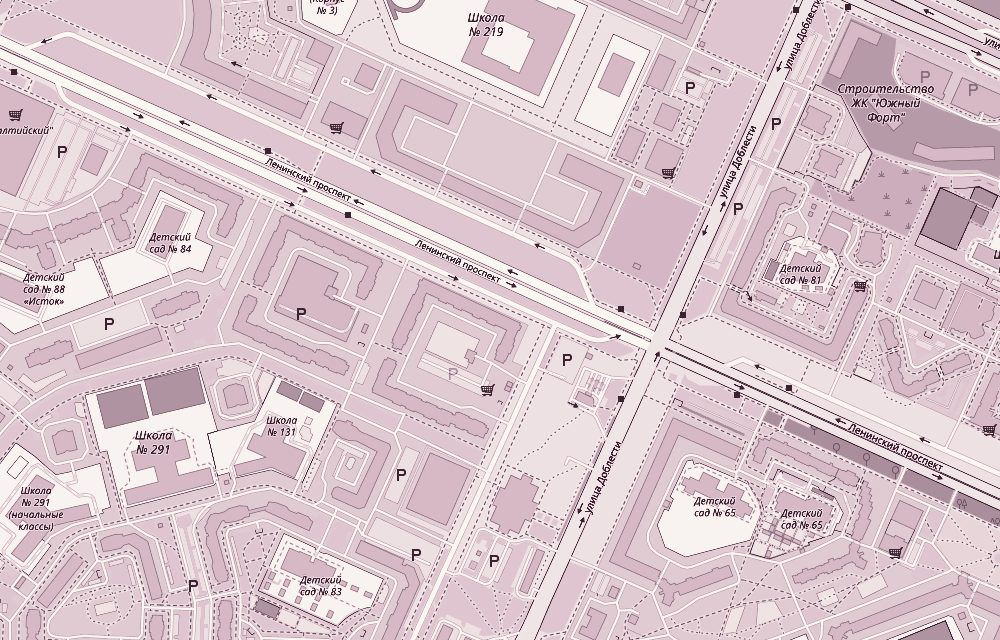
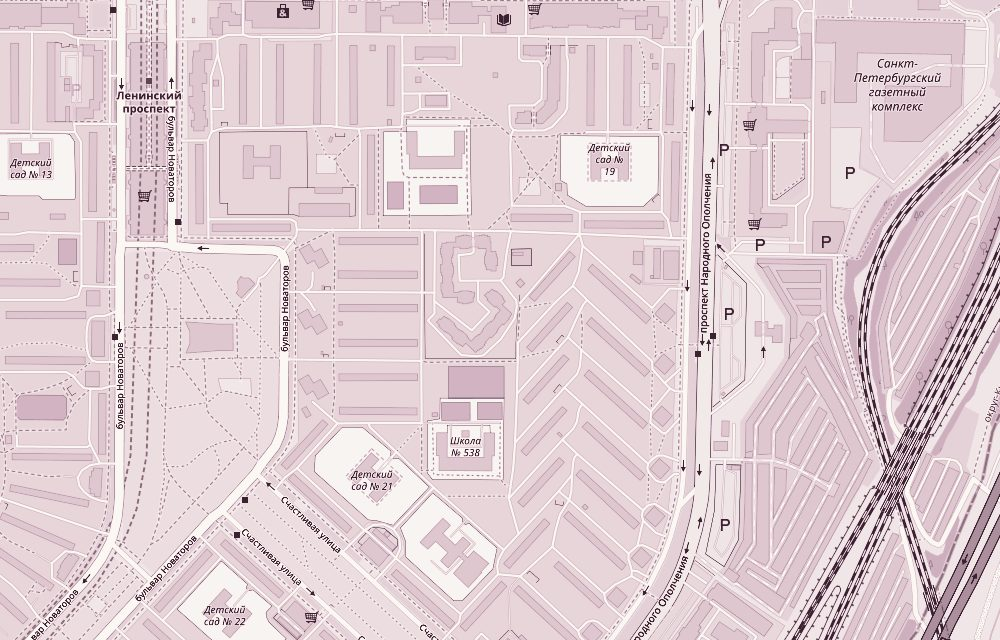
marianna-torty: her edits (hero photo, address Novatorov 26k2, prices from 2500/kg, mini 2000, savory 3000/3500, WhatsApp, delivery paid by customer)

diff --git a/marianna-torty/index.html b/marianna-torty/index.html
@@ -528,7 +528,7 @@
       <a class="ny-chip" href="#novyy-god"><i>✦</i>Новый год: шоколадные фигуры и наборы от 400 ₽</a>
       <p class="kick">Торты на заказ в Санкт-Петербурге</p>
       <h1>Сладости <em>для радости</em></h1>
-      <p class="lead">Меня зовут Марианна, я кондитер с Ленинского проспекта. Пеку торты, мини-тортики и закусочные торты, делаю имбирные пряники и шоколад. Сливки 33%, бельгийский шоколад, ягодные начинки из свежих ягод, а не из готовых пюре.</p>
+      <p class="lead">Меня зовут Марианна, я кондитер, работаю у метро Ленинский проспект. Пеку торты, мини-тортики и закусочные торты, делаю имбирные пряники и шоколад. Сливки 33%, бельгийский шоколад, ягодные начинки из свежих ягод, а не из готовых пюре.</p>
       <div class="hero-facts">
         <div><b>от 2 500 ₽</b><span>за 1 кг торта</span></div>
         <div><b>от 1,5 кг</b><span>минимальный заказ</span></div>
@@ -540,7 +540,7 @@
       </div>
     </div>
     <div class="hero-fig">
-      <div class="hero-photo ph" data-lb="hero" data-cap="Торт с бабочками"><img src="img/hero.jpg" alt="Лиловый торт с бабочками от кондитера Марианны" fetchpriority="high"></div>
+      <div class="hero-photo ph" data-lb="hero" data-cap="Торт-платье с красными розами"><img src="img/hero.jpg" alt="Торт-платье с красными розами от кондитера Марианны" fetchpriority="high"></div>
       <div class="loupe ph" data-lb="hero" data-cap="Начинка «Лавандовое поле» в разрезе"><img src="img/hero-cut.jpg" alt="Разрез торта с начинкой Лавандовое поле"></div>
       <p class="loupe-note"><b>Снаружи по вашей идее</b>внутри одна из 25 начинок. Например, «Лавандовое поле»: лавандовые коржи и чёрная смородина</p>
       <div class="tag">от<b>2 500 ₽</b>за кг</div>
@@ -586,12 +586,12 @@
 <section class="sec" id="torty">
   <div class="wrap">
     <div class="sec-head">
-      <div><p class="kick">Каталог с ценами</p><h2 class="h2">Торты, которые <em>уже пекла</em></h2><p class="sub">Цена указана за весь торт на момент изготовления. Любой можно повторить в другой начинке или с другим именем и цифрой.</p></div>
+      <div><p class="kick">Каталог с ценами</p><h2 class="h2">Торты, которые <em>уже пекла</em></h2><p class="sub">Все торты от 2 500 ₽ за 1 кг, итог зависит от начинки и декора. Любой можно повторить в другой начинке или с другим именем и цифрой.</p></div>
     </div>
     <div class="tabs scroll" id="cat-tabs" role="tablist"></div>
     <div class="grid" id="grid"></div>
     <div class="more"><button class="btn btn-line" id="more" type="button"><span>Показать ещё</span></button></div>
-    <p class="cat-note">Сейчас цена от 2 500 ₽ за 1 кг: она зависит от начинки (с шоколадом дороже), веса и сложности декора. Ягоды в декоре добавляют 1 000 ₽. Точную сумму назову, когда обсудим ваш торт.</p>
+    <p class="cat-note">Цена в карточке посчитана по весу этого торта, от 2 500 ₽ за 1 кг. Она зависит от начинки (с шоколадом дороже) и сложности декора, ягоды в декоре добавляют 1 000 ₽. Точную сумму назову, когда обсудим ваш торт.</p>
   </div>
 </section>
 
@@ -658,7 +658,7 @@
       <div>
         <p class="kick">Мини-тортики и десерты</p>
         <h2 class="h2">Мои бенто <em>не на один зубок</em></h2>
-        <p class="sub">Обычный бенто весит 300–400 г. Мои мини-тортики 14–15 см в диаметре, высотой около 8 см и весят от 700 г до 1 кг. Упаковываю в красивую коробку.</p>
+        <p class="sub">Обычный бенто весит 300–400 г. Мои мини-тортики 14–15 см в диаметре, высотой около 8 см и весят от 700 г до 1 кг. Упаковываю в красивую коробку. Цена от 2 000 ₽.</p>
         <blockquote class="quote">Ну не могу я положить в торт 50 граммов начинки. Не могу!<cite>Марианна о маленьких бенто</cite></blockquote>
       </div>
       <figure class="scale" aria-label="Сравнение: обычный бенто 10 см и 300–400 г, мини-тортик Марианны 14 см и 700 г – 1 кг">
@@ -697,7 +697,7 @@
           <text x="295" y="50" text-anchor="middle" font-size="14" font-weight="700" fill="#B8186F">Ø 14–15 см</text>
           <text x="393" y="138" font-size="14" font-weight="700" fill="#B8186F" text-anchor="middle" transform="rotate(90 393 138)">8 см</text>
           <text x="295" y="214" text-anchor="middle" font-size="15" font-weight="700" fill="#2A1720">МОЙ МИНИ-ТОРТИК</text>
-          <text x="295" y="234" text-anchor="middle" font-size="14" fill="#5C4851">в 2 раза тяжелее бенто</text>
+          <text x="295" y="234" text-anchor="middle" font-size="14" fill="#5C4851">в 2 раза тяжелее · от 2 000 ₽</text>
           <text x="295" y="252" text-anchor="middle" font-size="14" font-weight="700" fill="#2A1720">700 г – 1 кг</text>
         </svg>
       </figure>
@@ -753,10 +753,10 @@
     <div>
       <p class="kick">Сладкое и солёное</p>
       <h2 class="h2">Закусочные торты, <em>мои фавориты</em></h2>
-      <p class="sub">Торт на праздник не обязан быть сладким. Мясные и рыбные торты собираю так же, как десертные: коржи, крем, декор.</p>
+      <p class="sub">Торт на праздник не обязан быть сладким. Мясные и рыбные торты собираю так же, как десертные: коржи, крем, декор. Цена зависит от оформления.</p>
       <ul class="salt-list">
-        <li><b>Рыбный торт</b><span>Сёмга, авокадо и креветки. Нежный сливочный крем с маслинами, маринованными огурчиками и укропом</span></li>
-        <li><b>Мясной торт</b><span>Коржи из свиного и говяжьего фарша или мясные блины. Бывает и торт-букет</span></li>
+        <li><b>Рыбный торт, от 3 500 ₽</b><span>Сёмга, авокадо и креветки. Нежный сливочный крем с маслинами, маринованными огурчиками и укропом</span></li>
+        <li><b>Мясной торт, от 3 000 ₽</b><span>Коржи из свиного и говяжьего фарша или мясные блины. Бывает и торт-букет</span></li>
         <li><b>С колбасой и ветчиной</b><span>Колбаса, ветчина и шампиньоны, розы из колбасы сверху</span></li>
         <li><b>Блинный и со шпинатным бисквитом</b><span>Шпинатный бисквит с форелью или закусочный блинный торт</span></li>
       </ul>
@@ -801,7 +801,7 @@
         <h3>Цены на пряники</h3>
         <ul>
           <li>Имбирный пряник, Ø 10 см, 80 г<b>150 ₽</b></li>
-          <li>Маленький пряник<b>100 ₽</b></li>
+          <li>Новогодний пряник<b>от 150 ₽</b></li>
           <li>Букет из пряников<b>от 1 500 ₽</b></li>
           <li>Корзинка для букета<b>500 ₽</b></li>
           <li>Безе в букет, за штуку<b>50–100 ₽</b></li>
@@ -904,8 +904,8 @@
         <button class="btn btn-mag" type="button" id="c-add">Добавить расчёт в заявку</button>
       </div>
       <ul class="rules">
-        <li><i>01</i><div><b>от 2 500 ₽ за 1 кг</b><p>Цена актуальна с 1 августа 2025. Зависит от начинки (с шоколадом дороже), веса и сложности декора.</p></div></li>
-        <li><i>02</i><div><b>Минимальный заказ 1,5 кг</b><p>Мини-тортики весят от 700 г до 1 кг, 14–15 см в диаметре.</p></div></li>
+        <li><i>01</i><div><b>Все торты от 2 500 ₽ за 1 кг</b><p>Цена актуальна с 1 августа 2025. Зависит от начинки (с шоколадом дороже), веса и сложности декора.</p></div></li>
+        <li><i>02</i><div><b>Минимальный заказ 1,5 кг</b><p>Мини-тортик от 700 г, 14–15 см в диаметре, стоит от 2 000 ₽.</p></div></li>
         <li><i>03</i><div><b>Ягоды в декоре +1 000 ₽</b><p>Ягода и шоколад сильно подорожали, но такие торты всё равно одни из самых любимых.</p></div></li>
         <li><i>04</i><div><b>Корона, свечи, топпер, подложка</b><p>Оплачиваются отдельно, по вашему заказу.</p></div></li>
         <li><i>05</i><div><b>Можно без декора</b><p>Сделаю торт без украшений: удобно, если хотите украсить сами или просто полакомиться.</p></div></li>
@@ -920,14 +920,14 @@
     <p class="kick">Как заказать</p>
     <h2 class="h2">Четыре шага <em>до торта</em></h2>
     <div class="steps">
-      <div class="step"><i>1</i><b>Напишите или позвоните</b><p>Дата, повод, сколько гостей и картинка или идея. Телефон +7 921 652-68-83 или сообщения ВКонтакте.</p></div>
+      <div class="step"><i>1</i><b>Напишите или позвоните</b><p>Дата, повод, сколько гостей и картинка или идея. Телефон, WhatsApp и MAX: +7 921 652-68-83, или сообщения ВКонтакте.</p></div>
       <div class="step"><i>2</i><b>Подбираем начинку и вес</b><p>Посоветую вкус под гостей и повод, назову точную цену.</p></div>
       <div class="step"><i>3</i><b>Готовлю ваш торт</b><p>Я на связи до полного завершения заказа и отвечу на все вопросы.</p></div>
-      <div class="step"><i>4</i><b>Забираете или доставим</b><p>Самовывоз на Ленинском проспекте или Яндекс Доставка до двери.</p></div>
+      <div class="step"><i>4</i><b>Забираете или доставим</b><p>Самовывоз у метро Ленинский проспект или Яндекс Доставка до двери.</p></div>
     </div>
     <div class="conds">
-      <div class="cond"><b><svg class="ico"><use href="#i-bag"/></svg>Самовывоз</b><p>Ленинский пр., 57 к1. Ежедневно с 9:00 до 21:00, время согласуем заранее.</p></div>
-      <div class="cond"><b><svg class="ico"><use href="#i-truck"/></svg>Доставка</b><p>Яндекс Доставкой, каждый торт застрахован на 50 000 ₽. Возили и в Ленобласть, и к 6 утра.</p></div>
+      <div class="cond"><b><svg class="ico"><use href="#i-bag"/></svg>Самовывоз</b><p>Бульвар Новаторов, 26 к2, метро Ленинский проспект. Ежедневно с 9:00 до 21:00, время согласуем заранее.</p></div>
+      <div class="cond"><b><svg class="ico"><use href="#i-truck"/></svg>Доставка</b><p>Яндекс Доставкой, оплачивает заказчик. Каждый торт застрахован на 50 000 ₽. Возили и в Ленобласть, и к 6 утра.</p></div>
       <div class="cond"><b><svg class="ico"><use href="#i-card"/></svg>Оплата</b><p>Наличными или на карту Сбербанка, пришлю чек. Торт скоропортящийся, поэтому все детали согласуем до начала работы.</p></div>
     </div>
   </div>
@@ -941,10 +941,10 @@
       <details><summary>Можно сделать торт точь-в-точь как на картинке?</summary><p>Референсы идеально я не повторяю. Возьму идею, цвета и настроение и сделаю по-своему, своими руками. Многие заказчики вообще доверяют мне дизайн: присылают имя, возраст и что любит именинник.</p></details>
       <details><summary>Сколько стоит торт?</summary><p>От 2 500 ₽ за 1 кг. Цена зависит от начинки (с шоколадом дороже), веса и сложности декора, ягоды в декоре добавляют 1 000 ₽. В каталоге выше есть торты с ценами, а в калькуляторе можно прикинуть вес по числу гостей.</p></details>
       <details><summary>Почему торт со сложным декором стоит дороже?</summary><p>Работа и время стоят денег. Один из моих тортов я делала 12 часов, и это когда ярусы уже были собраны. Подготовка декора иногда занимает больше времени, чем сам торт.</p></details>
-      <details><summary>Вы делаете бенто на 300 граммов?</summary><p>Нет, маленькие бенто я не делаю. Мои мини-тортики 14–15 см в диаметре и весят от 700 г до 1 кг, потому что начинки я не жалею. Упаковываю их в красивые коробки.</p></details>
+      <details><summary>Вы делаете бенто на 300 граммов?</summary><p>Нет, маленькие бенто я не делаю. Мои мини-тортики 14–15 см в диаметре и весят от 700 г до 1 кг, потому что начинки я не жалею. Упаковываю их в красивые коробки, цена от 2 000 ₽.</p></details>
       <details><summary>За сколько дней заказывать?</summary><p>Чем раньше, тем лучше, особенно перед праздниками: даты разбирают. Если нужно срочно, всё равно пишите: бывало, делала торт за сутки.</p></details>
       <details><summary>Можно заказать торт без декора или только декор?</summary><p>Да. Торт без украшений можно, его удобно украсить самим. А если торт вы печёте сами, у меня можно заказать только декор: пряники, шоколадные фигурки, надписи.</p></details>
-      <details><summary>Как вы доставляете торты?</summary><p>Яндекс Доставкой, каждый торт застрахован на 50 000 ₽. Или самовывоз: Ленинский проспект, 57 к1, ежедневно с 9:00 до 21:00 по договорённости.</p></details>
+      <details><summary>Как вы доставляете торты?</summary><p>Яндекс Доставкой, доставку оплачивает заказчик, каждый торт застрахован на 50 000 ₽. Или самовывоз: бульвар Новаторов, 26 к2, метро Ленинский проспект, ежедневно с 9:00 до 21:00 по договорённости.</p></details>
     </div>
   </div>
 </section>
@@ -967,7 +967,7 @@
           <div class="f"><label class="f-lab" for="f-filling">Начинка</label><select id="f-filling" name="filling"><option value="">Посоветуйте</option></select></div>
         </div>
         <div class="f"><span class="f-lab">Получение</span>
-          <div class="seg"><label><input type="radio" name="get" value="Самовывоз, Ленинский пр." checked><span>Самовывоз, Ленинский пр.</span></label><label><input type="radio" name="get" value="Доставка"><span>Доставка</span></label></div>
+          <div class="seg"><label><input type="radio" name="get" value="Самовывоз, б-р Новаторов" checked><span>Самовывоз, б-р Новаторов</span></label><label><input type="radio" name="get" value="Доставка"><span>Доставка</span></label></div>
         </div>
         <div class="f"><label class="f-lab" for="f-comment">Идея и пожелания</label><textarea id="f-comment" name="comment" placeholder="Повод, имя и возраст, цвета, надпись. Картинку можно прислать потом в сообщения"></textarea></div>
         <div class="f-row">
@@ -979,8 +979,8 @@
         <p class="err" id="err" role="alert"></p>
         <div class="f-btns" id="f-btns"><button class="btn btn-mag" id="submit" type="submit">Отправить заявку</button><button class="btn btn-line" type="button" id="send-vk"><svg class="ico"><use href="#i-chat"/></svg>Написать ВКонтакте</button></div>
         <div class="sent" id="sent" hidden><div class="ok"><svg class="ico"><use href="#i-check"/></svg></div><b>Спасибо, заявка принята!</b><p>Скоро напишу или позвоню, чтобы обсудить детали</p></div>
-        <div class="fallback" id="fallback" hidden>Не получилось отправить заявку. Напишите ВКонтакте или позвоните, всё обсудим:
-          <div class="f-btns"><a class="btn btn-mag" href="https://vk.me/club214423004" target="_blank" rel="noopener">Написать ВКонтакте</a><a class="btn btn-line" href="tel:+79216526883">Позвонить</a></div>
+        <div class="fallback" id="fallback" hidden>Не получилось отправить заявку. Напишите в WhatsApp, ВКонтакте или позвоните, всё обсудим:
+          <div class="f-btns"><a class="btn btn-mag" href="https://wa.me/79216526883" target="_blank" rel="noopener">WhatsApp</a><a class="btn btn-line" href="https://vk.me/club214423004" target="_blank" rel="noopener">ВКонтакте</a><a class="btn btn-line" href="tel:+79216526883">Позвонить</a></div>
         </div>
       </form>
       <div class="contacts" id="kontakty">
@@ -988,16 +988,17 @@
           <h3>Контакты</h3>
           <ul class="clist">
             <li><svg class="ico"><use href="#i-phone"/></svg><div><a href="tel:+79216526883">+7 921 652-68-83</a><small>Заказ и консультация: звонок или сообщение</small></div></li>
+            <li><svg class="ico"><use href="#i-chat"/></svg><div><a href="https://wa.me/79216526883" target="_blank" rel="noopener">Написать в WhatsApp</a><small>Тот же номер есть и в MAX</small></div></li>
             <li><svg class="ico"><use href="#i-chat"/></svg><div><a href="https://vk.me/club214423004" target="_blank" rel="noopener">Написать ВКонтакте</a><small>Отвечаю обычно в течение 5 минут</small></div></li>
-            <li><svg class="ico"><use href="#i-pin"/></svg><div>Санкт-Петербург, Ленинский проспект, 57 к1<small>Самовывоз, Красносельский район</small></div></li>
+            <li><svg class="ico"><use href="#i-pin"/></svg><div>Санкт-Петербург, бульвар Новаторов, 26 к2<small>Самовывоз, метро Ленинский проспект</small></div></li>
             <li><svg class="ico"><use href="#i-clock"/></svg><div>Ежедневно с 9:00 до 21:00<small>Время самовывоза согласуем заранее</small></div></li>
           </ul>
         </div>
         <div class="map">
-          <img src="img/map.jpg" alt="Карта: Ленинский проспект, 57 к1" loading="lazy">
+          <img src="img/map.jpg" alt="Карта: бульвар Новаторов, 26 к2" loading="lazy">
           <span class="pin" aria-hidden="true"></span>
           <span class="osm">© участники OpenStreetMap</span>
-          <div class="map-cap"><span>Ленинский пр., 57 к1</span><a class="btn btn-mag" href="https://yandex.ru/maps/?rtext=~59.8616071,30.1762627&amp;rtt=auto" target="_blank" rel="noopener">Маршрут в Яндекс Картах</a></div>
+          <div class="map-cap"><span>б-р Новаторов, 26 к2</span><a class="btn btn-mag" href="https://yandex.ru/maps/?rtext=~59.8480653,30.2759238&amp;rtt=auto" target="_blank" rel="noopener">Маршрут в Яндекс Картах</a></div>
         </div>
       </div>
     </div>
@@ -1011,6 +1012,7 @@
       <div><b>Марианна</b><p>Торты на заказ, мини-тортики, закусочные торты, пряники и шоколад ручной работы. Ленинский проспект, Санкт-Петербург</p></div>
       <nav aria-label="Контакты">
         <a href="tel:+79216526883">+7 921 652-68-83</a>
+        <a href="https://wa.me/79216526883" target="_blank" rel="noopener">WhatsApp</a>
         <a href="https://vk.com/club214423004" target="_blank" rel="noopener">Группа ВКонтакте</a>
         <a href="privacy.html">Политика обработки персональных данных</a>
       </nav>
@@ -1021,7 +1023,7 @@
 
 <nav class="mbar" id="mbar" aria-label="Быстрые действия">
   <a href="tel:+79216526883"><svg class="ico"><use href="#i-phone"/></svg>Позвонить</a>
-  <a href="https://vk.me/club214423004" target="_blank" rel="noopener"><svg class="ico"><use href="#i-chat"/></svg>ВКонтакте</a>
+  <a href="https://wa.me/79216526883" target="_blank" rel="noopener"><svg class="ico"><use href="#i-chat"/></svg>WhatsApp</a>
   <a class="go" href="#zakaz">Заказать <em id="mbar-n" hidden>0</em></a>
 </nav>
 
@@ -1091,13 +1093,14 @@
   const TABS = [["girls", "Девочкам"], ["boys", "Мальчикам"], ["young", "Девушкам"], ["women", "Женщинам"], ["men", "Мужчинам"], ["jub", "Свадьбы и юбилеи"]];
   let curTab = "girls", showAll = false;
   const kgNum = w => parseFloat(String(w).replace(",", "."));
-  const labelOf = x => x.wed ? x.t : `${x.t}${x.w ? `, ${x.w} кг` : ""}${x.p ? `, ${fmt(x.p)} ₽` : ""}`;
+  const priceOf = x => x.w ? Math.round(kgNum(x.w) * 2500) : 0;
+  const labelOf = x => x.wed ? x.t : `${x.t}${x.w ? `, ${x.w} кг, от ${fmt(priceOf(x))} ₽` : ""}`;
   ALL.forEach(x => x.label = labelOf(x));
   $("cat-tabs").innerHTML = TABS.map(([k, n]) => `<button class="tab" role="tab" type="button" data-tab="${k}" aria-selected="${k === curTab}">${n}<sup>${ALL.filter(x => x.tab === k).length}</sup></button>`).join("");
   function card(x){
     const k = ALL.indexOf(x);
-    const per = x.p && x.w ? `≈ ${fmt(Math.round(x.p / kgNum(x.w) / 50) * 50)} ₽ за кг` : (x.wed ? "по весу" : "");
-    const price = x.wed ? "от 2 500 ₽/кг" : `${fmt(x.p)} ₽`;
+    const per = x.w ? "от 2 500 ₽ за кг" : "по весу";
+    const price = x.w ? `от ${fmt(priceOf(x))} ₽` : "от 2 500 ₽/кг";
     return `<article class="cake"><button class="cake-img" type="button" data-open="${k}" aria-label="Подробнее: ${esc(x.t)}"><img src="img/${x.img}.jpg" alt="${esc(x.t)}" loading="lazy">${x.w ? `<span class="w">${x.w} кг</span>` : (x.wed ? `<span class="w">свадьба</span>` : "")}</button>
       <div class="cake-b"><h3>${esc(x.t)}</h3><p class="in"><b>Внутри:</b> ${esc(x.in)}</p>
       <div class="cake-f"><div class="pr"><b>${price}</b><small>${per}</small></div><button class="add" type="button" data-add="${k}" data-label="${esc(x.label)}">Хочу такой</button></div></div></article>`;
@@ -1131,8 +1134,7 @@
     sheetItem = x;
     const img = sheet.querySelector(".sheet-img img"); img.src = `img/${x.img}.jpg`; img.alt = x.t;
     sheet.querySelector("h3").textContent = x.t;
-    sheet.querySelector(".meta").innerHTML = x.wed ? `<b>от 2 500 ₽</b><span>за 1 кг, вес по числу гостей</span>` :
-      `<b>${x.p ? fmt(x.p) + " ₽" : ""}</b><span>${x.w ? x.w + " кг" : ""}${x.p && x.w ? ` · ≈ ${fmt(Math.round(x.p / kgNum(x.w) / 50) * 50)} ₽ за кг` : ""}</span>`;
+    sheet.querySelector(".meta").innerHTML = x.w ? `<b>от ${fmt(priceOf(x))} ₽</b><span>${x.w} кг · от 2 500 ₽ за кг</span>` : `<b>от 2 500 ₽</b><span>за 1 кг, вес по числу гостей</span>`;
     sheet.querySelector("dl").innerHTML = [["Внутри", x.in], ["Декор", x.dec], ["Важно", x.note]].filter(r => r[1]).map(([t, d]) => `<dt>${t}</dt><dd>${esc(d)}</dd>`).join("") +
       `<dt>Повторить?</dt><dd>Да, с вашим именем, цифрой и любой из 25 начинок. Цена считается по весу на момент заказа.</dd>`;
     $("sheet-add").textContent = picked.includes(x.label) ? "Уже в заявке" : "Хочу такой";
@@ -1155,7 +1157,7 @@
     ["ny-plitka-3", "Большая плитка с ёлкой", "800 ₽", "в праздничной коробке"],
     ["ny-shary", "Шоколадные ёлочные шары", "по набору", "6 шаров в коробке"],
     ["ny-elka", "Шоколадная ёлка в раме", "по размеру", "в белой подарочной раме"],
-    ["ny-pryaniki", "Пряники на ёлку", "от 100 ₽", "на ёлку можно повесить даже пряники"]
+    ["ny-pryaniki", "Новогодние пряники", "от 150 ₽", "на ёлку можно повесить даже пряники"]
   ];
   $("nygrid").innerHTML = NY.map(([img, t, p, s]) => {
     const label = `${t}, ${p}`;
